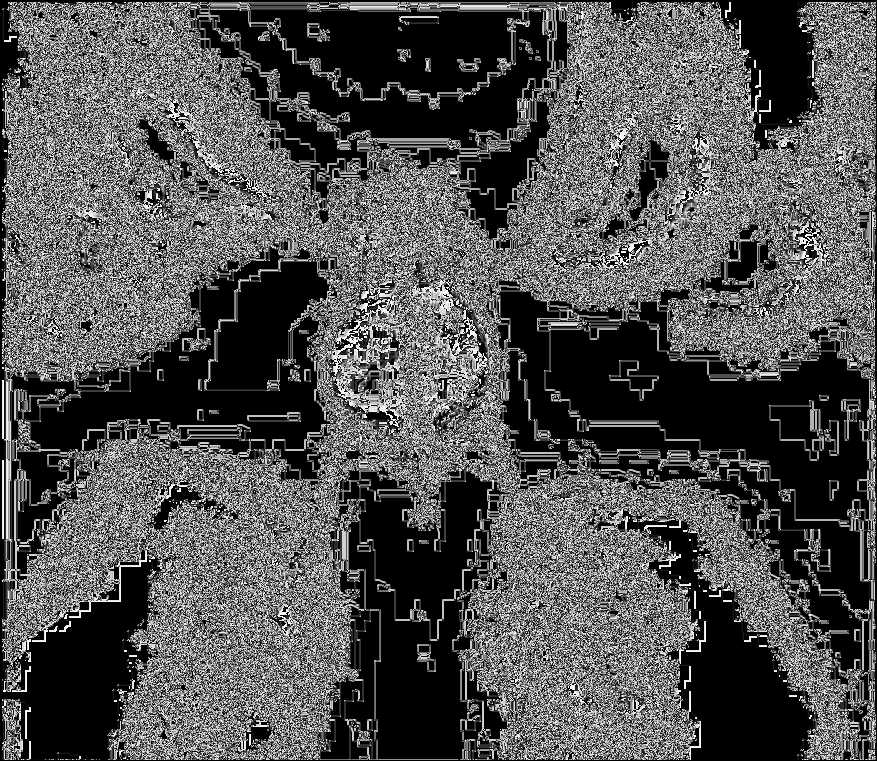
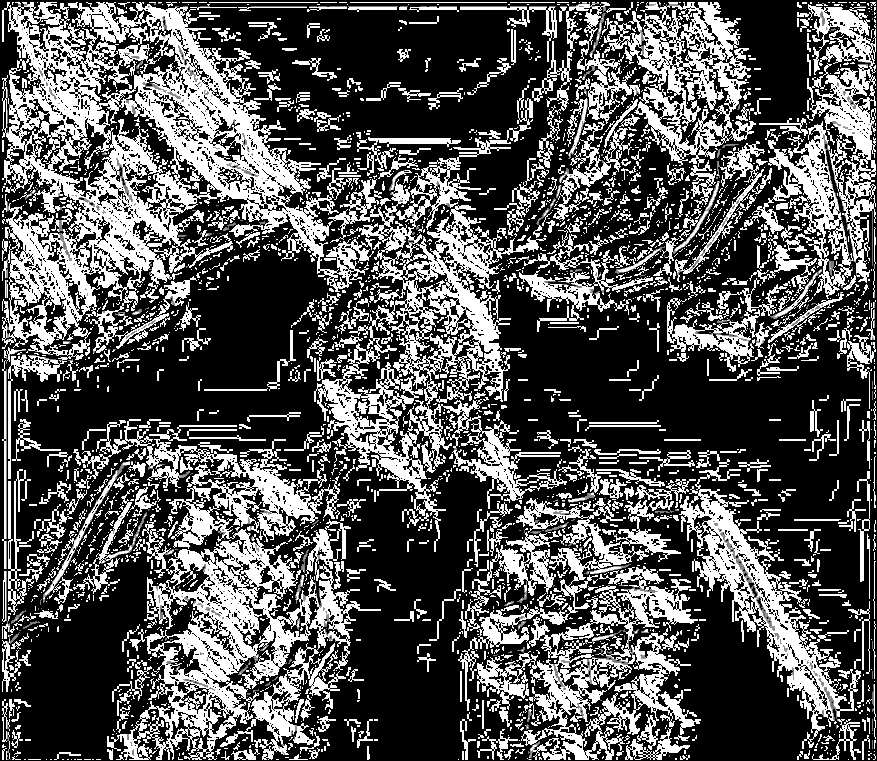
+ odata and contrasting it

diff --git a/work/main.c b/work/main.c
@@ -43,18 +43,17 @@ int main() {
             y = -MyImage[iw*(i-1)+(j-1)] - 2*MyImage[iw*(i-1)+j] - MyImage[iw*(i-1)+(j+1)];
             y = y + MyImage[iw*(i+1)+(j-1)] + 2*MyImage[iw*(i+1)+j] + MyImage[iw*(i+1)+(j+1)];
             s = sqrt(x*x + y*y);
-            odata[iw*i+j] = s*(MyImage[iw*i+j] - 128);
+            odata[iw*i+j] = s;
         }
     }
-    /*
+
     //coloring
     for (i = 0; i < ih; i++) {
         for (j = 0; j < iw; j++) {
-            if (MyImage[iw*i+j] < 112) MyImage[iw*i+j] = 0;
-            if (MyImage[iw*i+j] > 156) MyImage[iw*i+j] = 255;
+            if (odata[iw*i+j] < 112) odata[iw*i+j] = 0;
+            if (odata[iw*i+j] > 156) odata[iw*i+j] = 255;
         }
     }
-    */
 
     char* outputPath = "output.png";
     // записываем картинку
